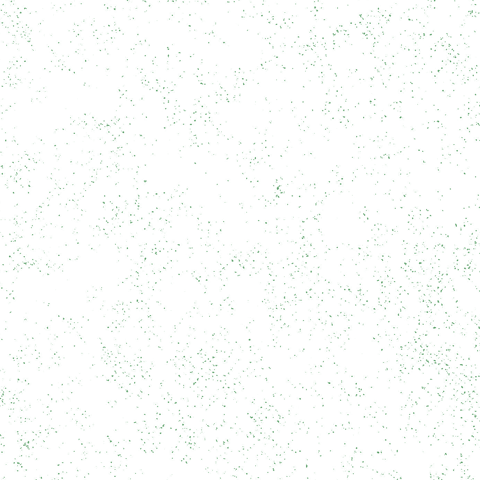
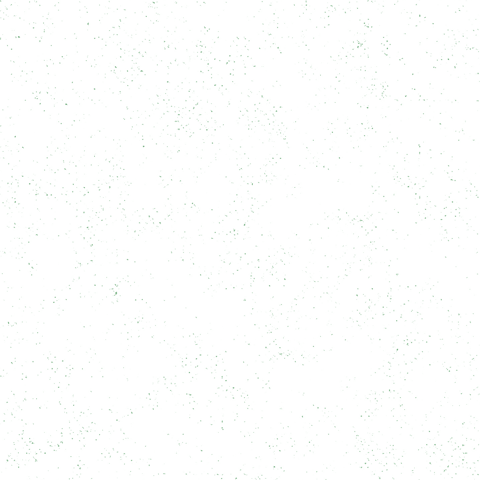
Menos puntillos

diff --git a/sites/all/themes/primavera/css/style.css b/sites/all/themes/primavera/css/style.css
@@ -3,12 +3,16 @@
  * remove this comment and start adding your styles to this file.
  */
 
-body, body *{
-	font-family:"Times New Roman", Times, serif;
+body{
 	background-image:url('/img/puntillos.png') !important;
 	background-repeat:repeat; 
 	background-attachment: fixed;
 }
+
+body, body *{
+	font-family:"Times New Roman", Times, serif;
+}
+
 
 .navbar-default, .footer {
 	border-color: #ffffff;
